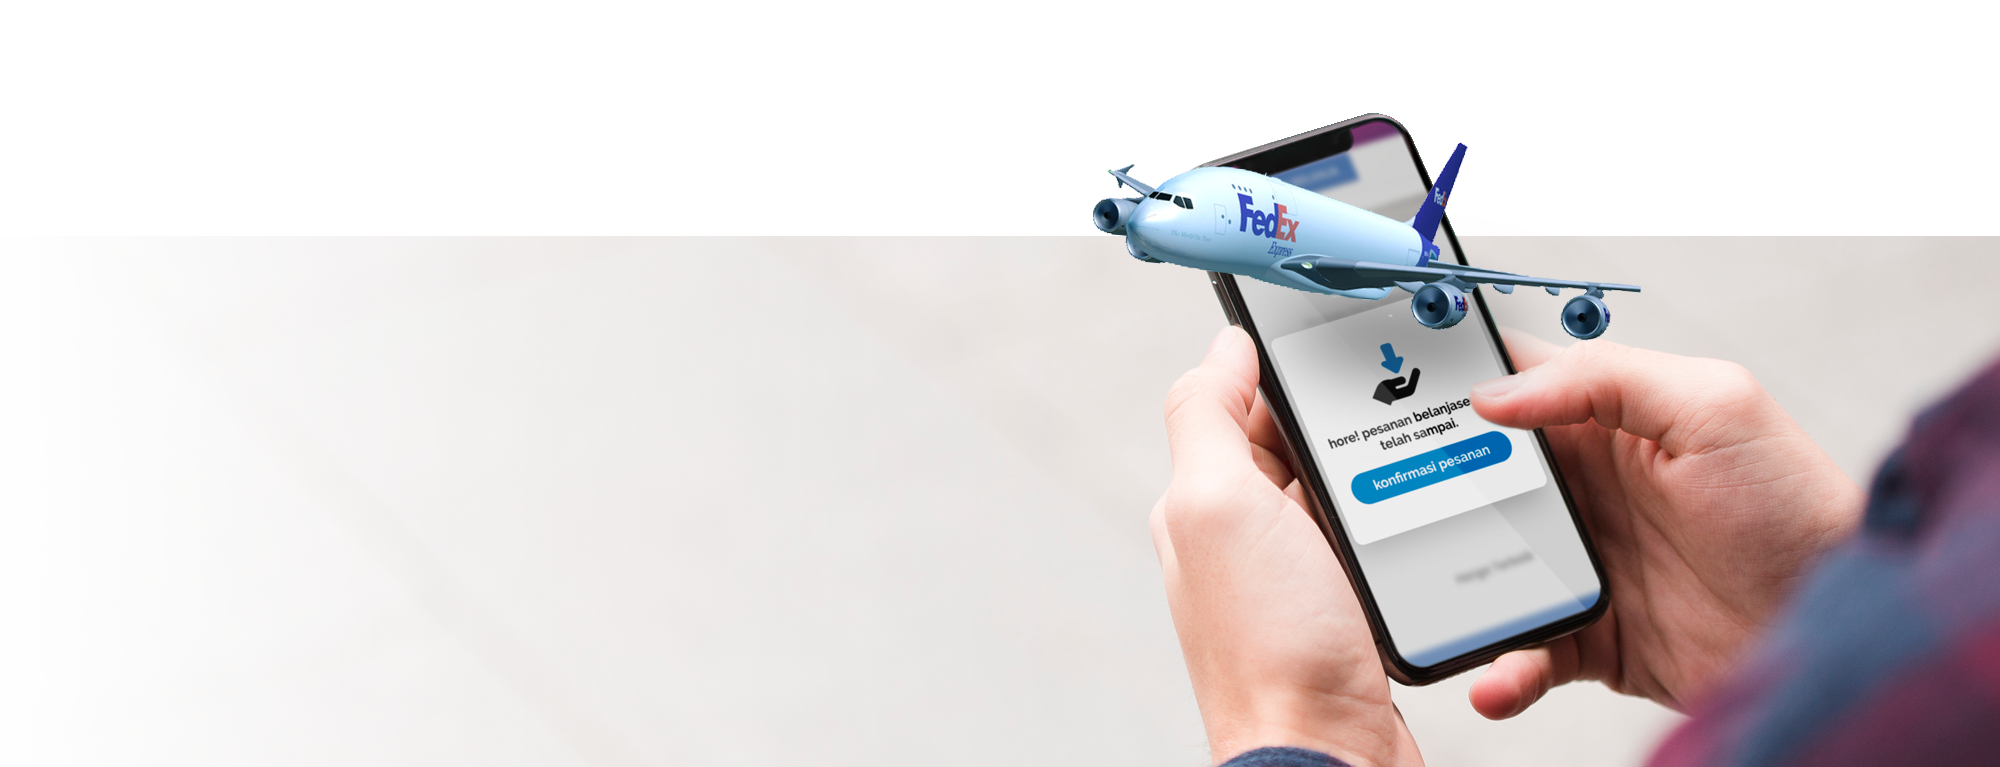
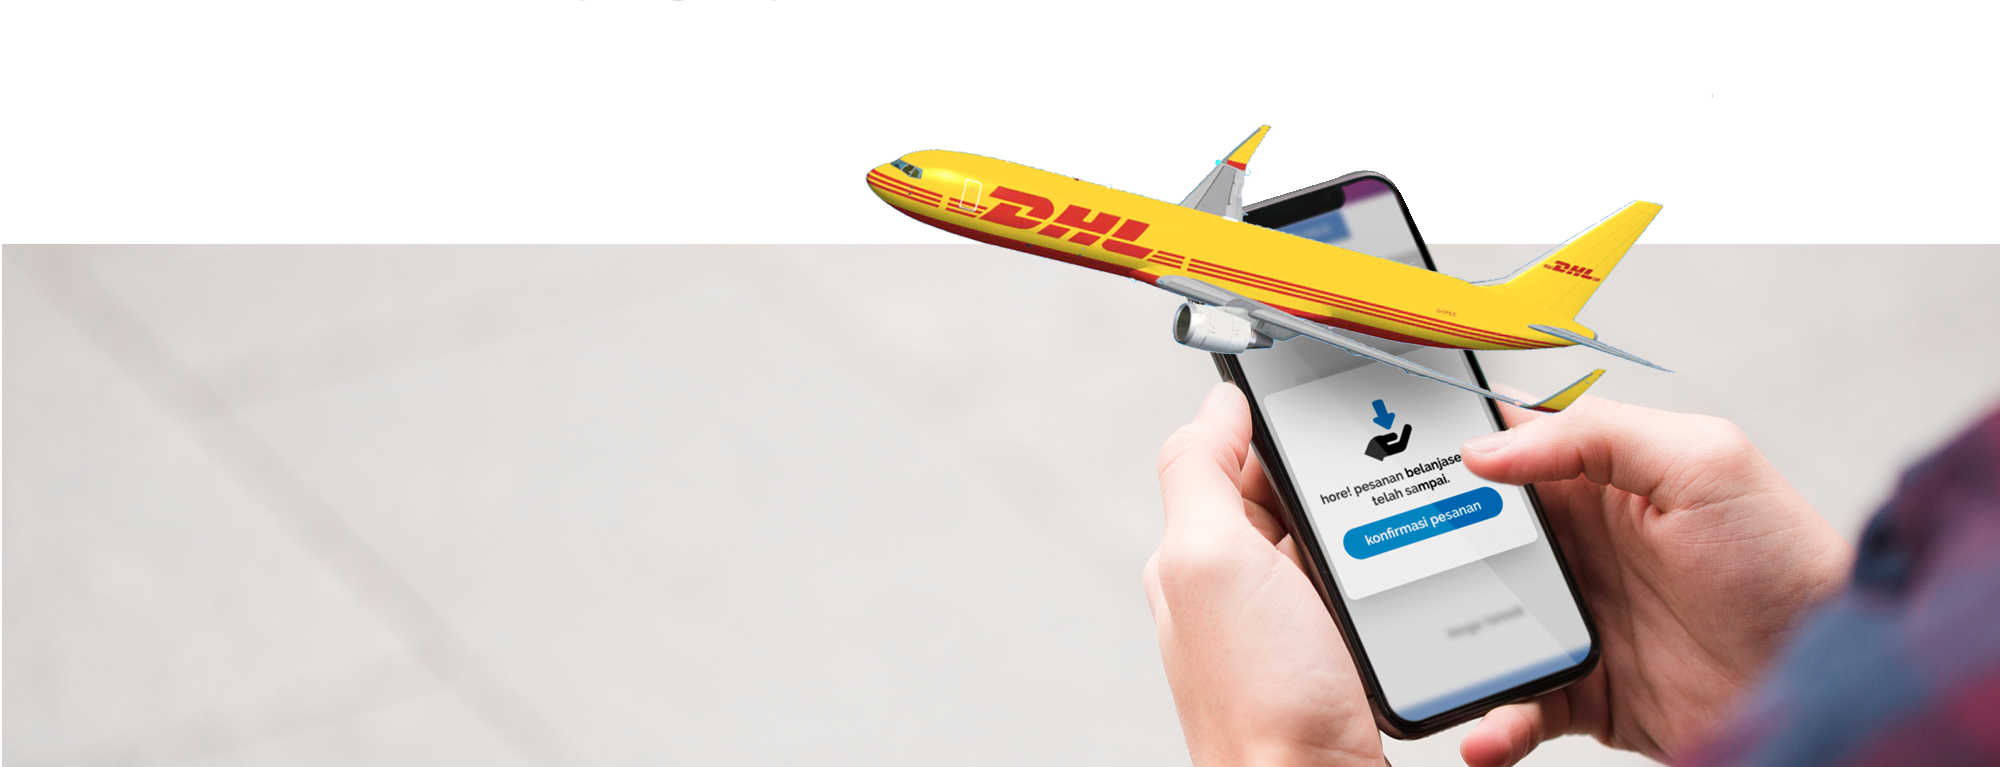
update

diff --git a/public/homepage/style.css b/public/homepage/style.css
@@ -2514,7 +2514,7 @@ img.lazy:not([src]) {
     width: 100%;
     margin: 60px 0;
     padding: 60px 0;
-    background-color: #F9F9F9;
+    background-color: #fff;
     overflow: hidden;
 }
 

diff --git a/resources/views/emails/sites/addorderr.blade.php b/resources/views/emails/sites/addorderr.blade.php
@@ -149,7 +149,8 @@
                                                 <div style="   font-family: Helvetica, sans-serif; ">
                                                     <p style="text-align: left;  word-break: break-word;   margin: 0;">
                                                         <span style="">Halo tim Belanjasemua.com!</span></p>
-                                                    <p style="text-align: left;  word-break: break-word;   margin: 0;">ss
+                                                    <p style="text-align: left;  word-break: break-word;   margin: 0;">
+                                                        ss
                                                         <span style="">
                                                             Kamu telah menerima pesanan baru, permintaan order yang
                                                             telah sistem terima: <br><br>

diff --git a/resources/views/homepage/aboutus.blade.php b/resources/views/homepage/aboutus.blade.php
@@ -58,7 +58,7 @@ Kami Musim Panen.')
             <div class="row col-mb-50">
                 <div class="col-md-7 text-center text-md-left">
                     <div class="heading-block topmargin-sm">
-                        <h2>pengiriman cepat, aman dan <br>terpercaya dengan partner <br><span>ekspedisi FedEx
+                        <h2>pengiriman cepat, aman dan <br>terpercaya dengan partner <br><span>ekspedisi DHL
                                 International</span>
                         </h2>
                     </div>
